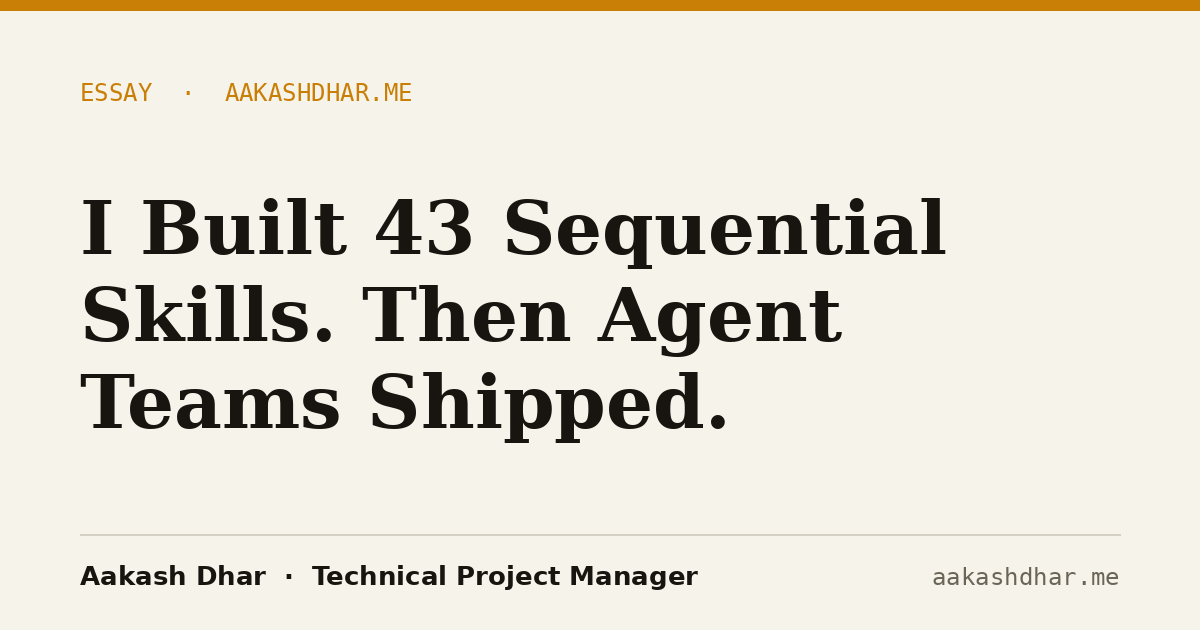
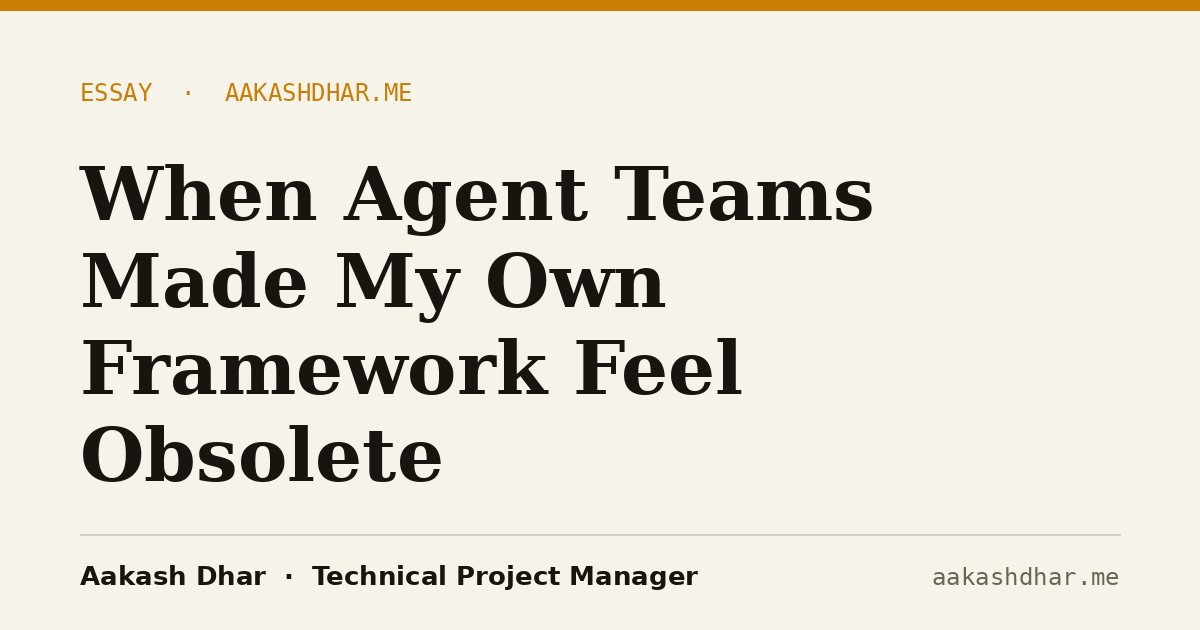
Refactor blog post title and metadata
Updated the agent teams blog post title and all associated metadata (meta tags, og:tags, twitter:tags, schema.org structured data, and page headings) to be more compelling and less prescriptive. Changed from a specific question about 43 sequential skills to a broader narrative about handling tool obsolescence. Updated the OG image as well.

Changed region(s): [[0.0617, 0.2413, 0.8017, 0.7841]]

diff --git a/blog/agent-teams-vs-sequential-skills.html b/blog/agent-teams-vs-sequential-skills.html
@@ -4,13 +4,13 @@
 <meta charset="UTF-8">
 <meta name="viewport" content="width=device-width, initial-scale=1.0">
 
-<title>I Built 43 Sequential Skills. Then Agent Teams Shipped. | Aakash Dhar</title>
+<title>When Agent Teams Made My Own Framework Feel Obsolete | Aakash Dhar</title>
 <link rel="icon" href="/favicon.ico" sizes="32x32">
 <link rel="icon" type="image/svg+xml" href="/favicon.svg">
 <link rel="apple-touch-icon" href="/apple-touch-icon.png">
-<meta name="title" content="I Built 43 Sequential Skills. Then Agent Teams Shipped. | Aakash Dhar">
+<meta name="title" content="When Agent Teams Made My Own Framework Feel Obsolete | Aakash Dhar">
 
-<meta name="description" content="I built two sequential Claude Code skill frameworks that run my delivery work. Then Agent Teams shipped and let sessions run in parallel. Here is how I decided whether to tear the whole thing down.">
+<meta name="description" content="A new tool made months of my own work feel obsolete overnight. Here's what I did instead of tearing it all down, and how I decided what was worth keeping.">
 
 <meta name="keywords" content="Claude Code, Agent Teams, agentic AI, multi-agent workflows, skills framework, MCP, software delivery">
 
@@ -21,15 +21,15 @@
 <!-- OpenGraph -->
 <meta property="og:type" content="article">
 <meta property="og:url" content="https://aakashdhar.me/blog/agent-teams-vs-sequential-skills.html">
-<meta property="og:title" content="I Built 43 Sequential Skills. Then Agent Teams Shipped.">
-<meta property="og:description" content="Do you tear down a working sequential pipeline the week a parallel one ships? Here is how I actually made the call.">
+<meta property="og:title" content="When Agent Teams Made My Own Framework Feel Obsolete">
+<meta property="og:description" content="A new tool made months of my own work feel obsolete. Here's what I did instead of tearing it all down.">
 <meta property="og:image" content="https://aakashdhar.me/assets/images/blog/agent-teams-vs-sequential-skills-og.png">
 
 <!-- Twitter Card -->
 <meta property="twitter:card" content="summary_large_image">
 <meta property="twitter:url" content="https://aakashdhar.me/blog/agent-teams-vs-sequential-skills.html">
-<meta property="twitter:title" content="I Built 43 Sequential Skills. Then Agent Teams Shipped.">
-<meta property="twitter:description" content="Do you tear down a working sequential pipeline the week a parallel one ships? Here is how I actually made the call.">
+<meta property="twitter:title" content="When Agent Teams Made My Own Framework Feel Obsolete">
+<meta property="twitter:description" content="A new tool made months of my own work feel obsolete. Here's what I did instead of tearing it all down.">
 <meta property="twitter:image" content="https://aakashdhar.me/assets/images/blog/agent-teams-vs-sequential-skills-og.png">
 
 <!-- Schema.org structured data -->
@@ -37,7 +37,7 @@
 {
   "@context": "https://schema.org",
   "@type": "BlogPosting",
-  "headline": "I Built 43 Sequential Skills. Then Agent Teams Shipped. Do I Tear It Down?",
+  "headline": "When Agent Teams Made My Own Framework Feel Obsolete",
   "image": "https://aakashdhar.me/assets/images/blog/agent-teams-vs-sequential-skills-og.png",
   "author": {
     "@type": "Person",
@@ -53,7 +53,7 @@
     }
   },
   "datePublished": "2026-07-03",
-  "description": "I built two sequential Claude Code skill frameworks that run my delivery work. Then Agent Teams shipped and let sessions run in parallel. Here is how I decided whether to tear the whole thing down.",
+  "description": "A new tool made months of my own work feel obsolete overnight. Here's what I did instead of tearing it all down, and how I decided what was worth keeping.",
   "mainEntityOfPage": {
     "@type": "WebPage",
     "@id": "https://aakashdhar.me/blog/agent-teams-vs-sequential-skills.html"
@@ -422,9 +422,9 @@ a:focus-visible,button:focus-visible{outline:2px solid var(--amber);outline-offs
     <span class="pill hot">Agentic AI</span>
     <span class="cover-date">July 3, 2026</span>
   </div>
-  <h1 class="rv rv-d1">I Built 43 Sequential Skills. Then <em>Agent Teams</em> Shipped. Do I Tear It Down?</h1>
+  <h1 class="rv rv-d1">When <em>Agent Teams</em> shipped, the thing I'd built started to feel obsolete.</h1>
   <div class="cover-foot rv rv-d2">
-    <p class="cover-sub">My whole delivery pipeline runs one skill after another, in order. Then Claude Code let sessions run in parallel and message each other. Here is how I actually made the call.</p>
+    <p class="cover-sub">You spend months building something that works, then a new tool ships and makes the whole approach feel outdated. Here's what I did when that happened to me, and how I decided what was worth keeping.</p>
     <div class="cover-byline"><b>Aakash Dhar</b>Technical Project Manager</div>
   </div>
   <nav class="toc-strip rv rv-d3" aria-label="Contents">
